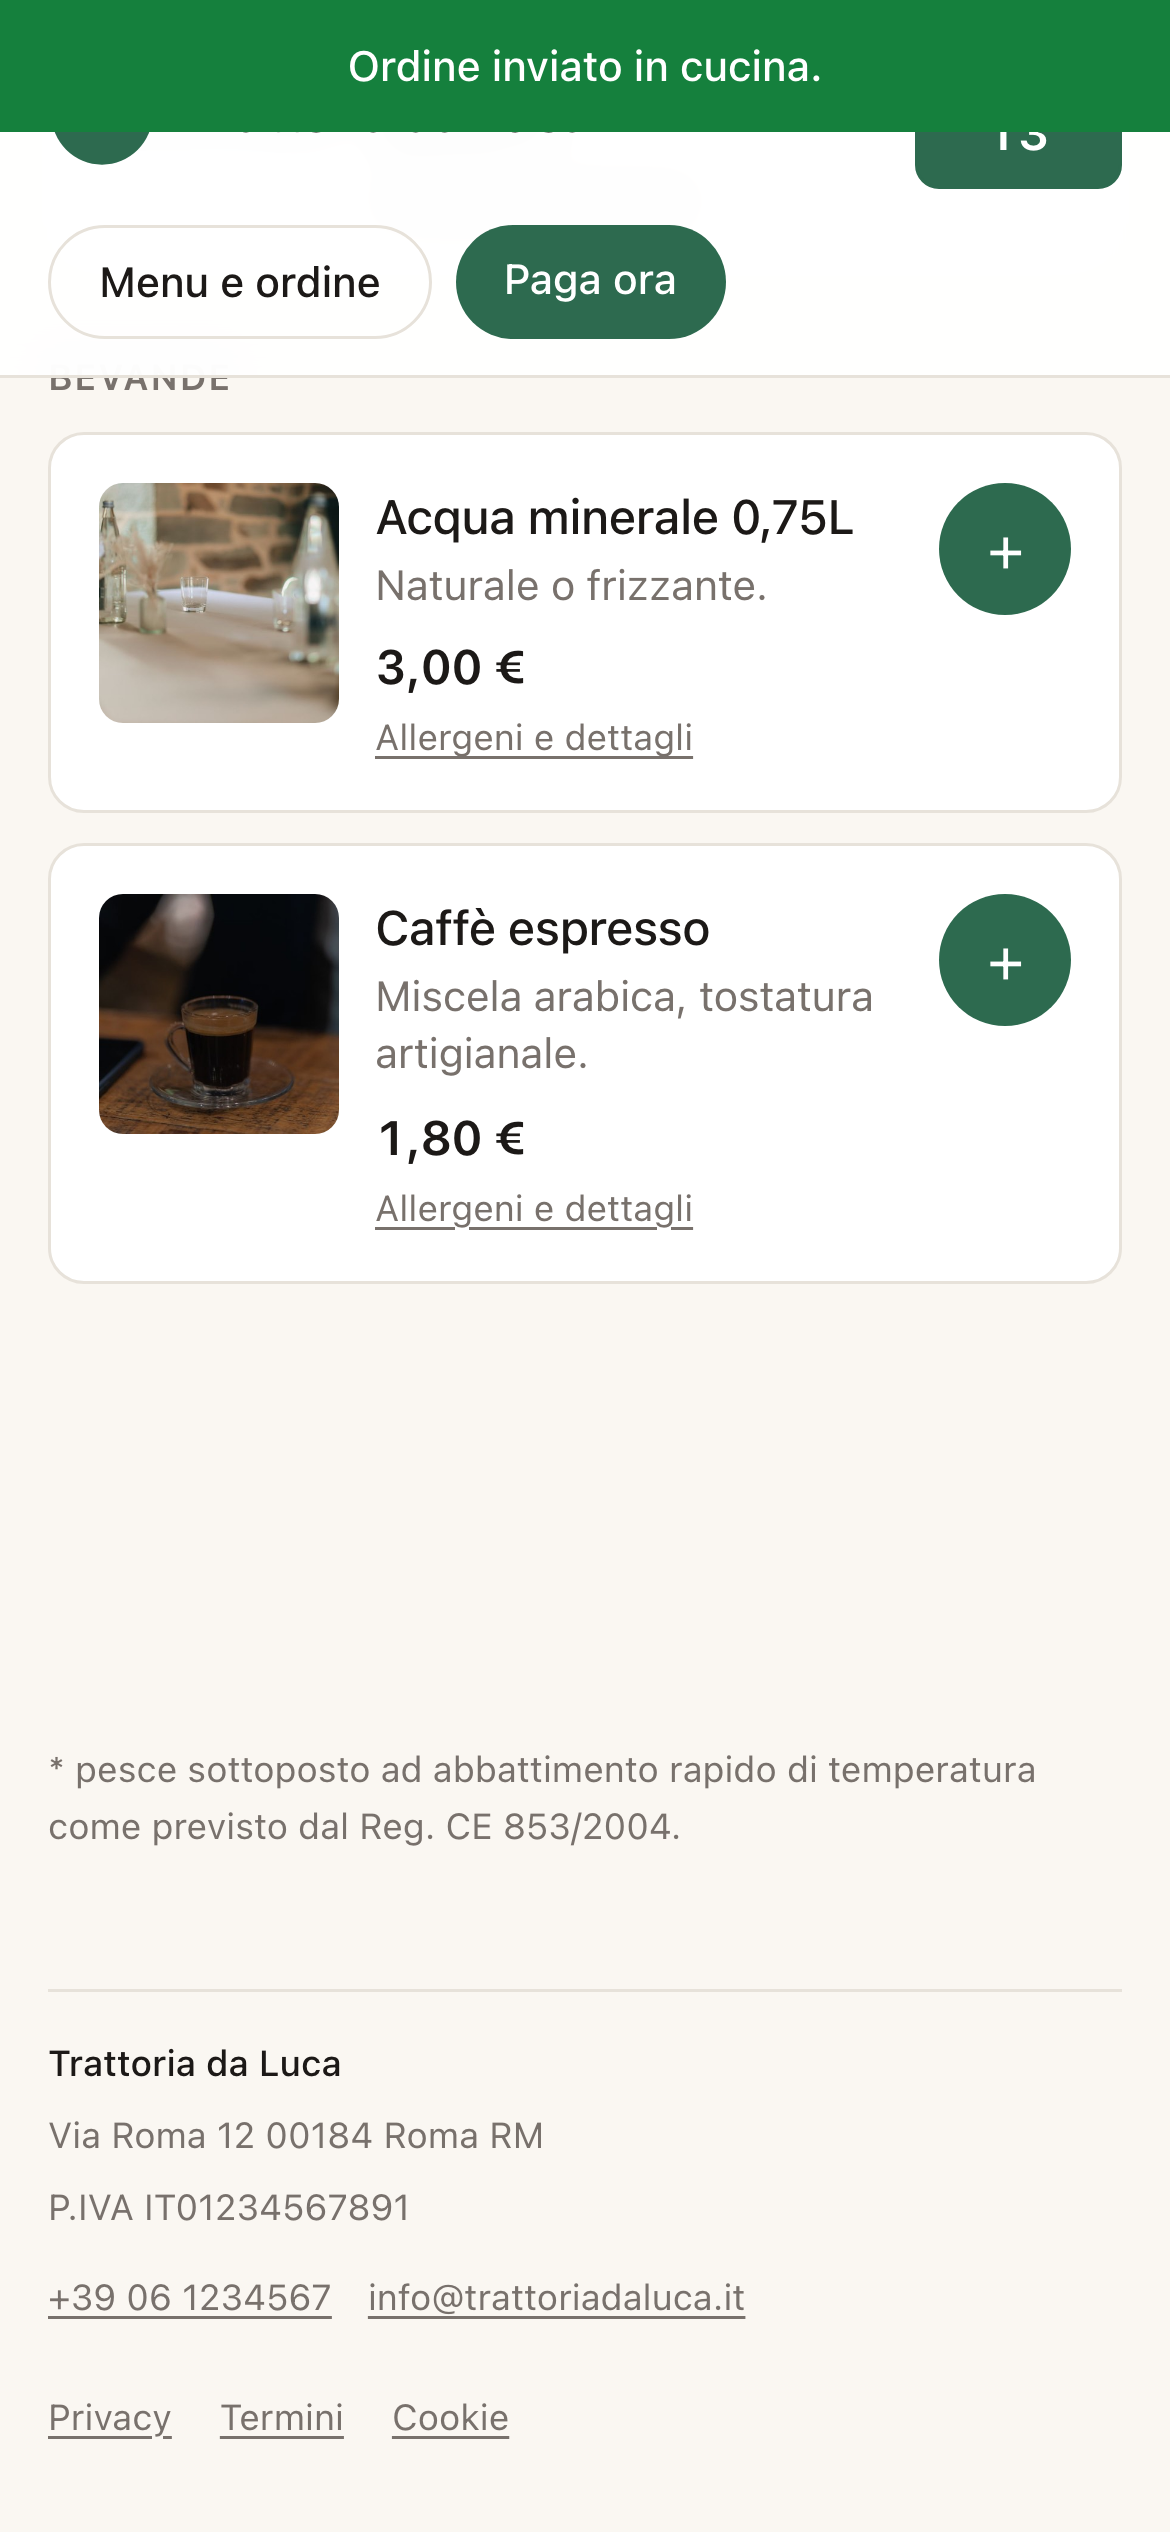
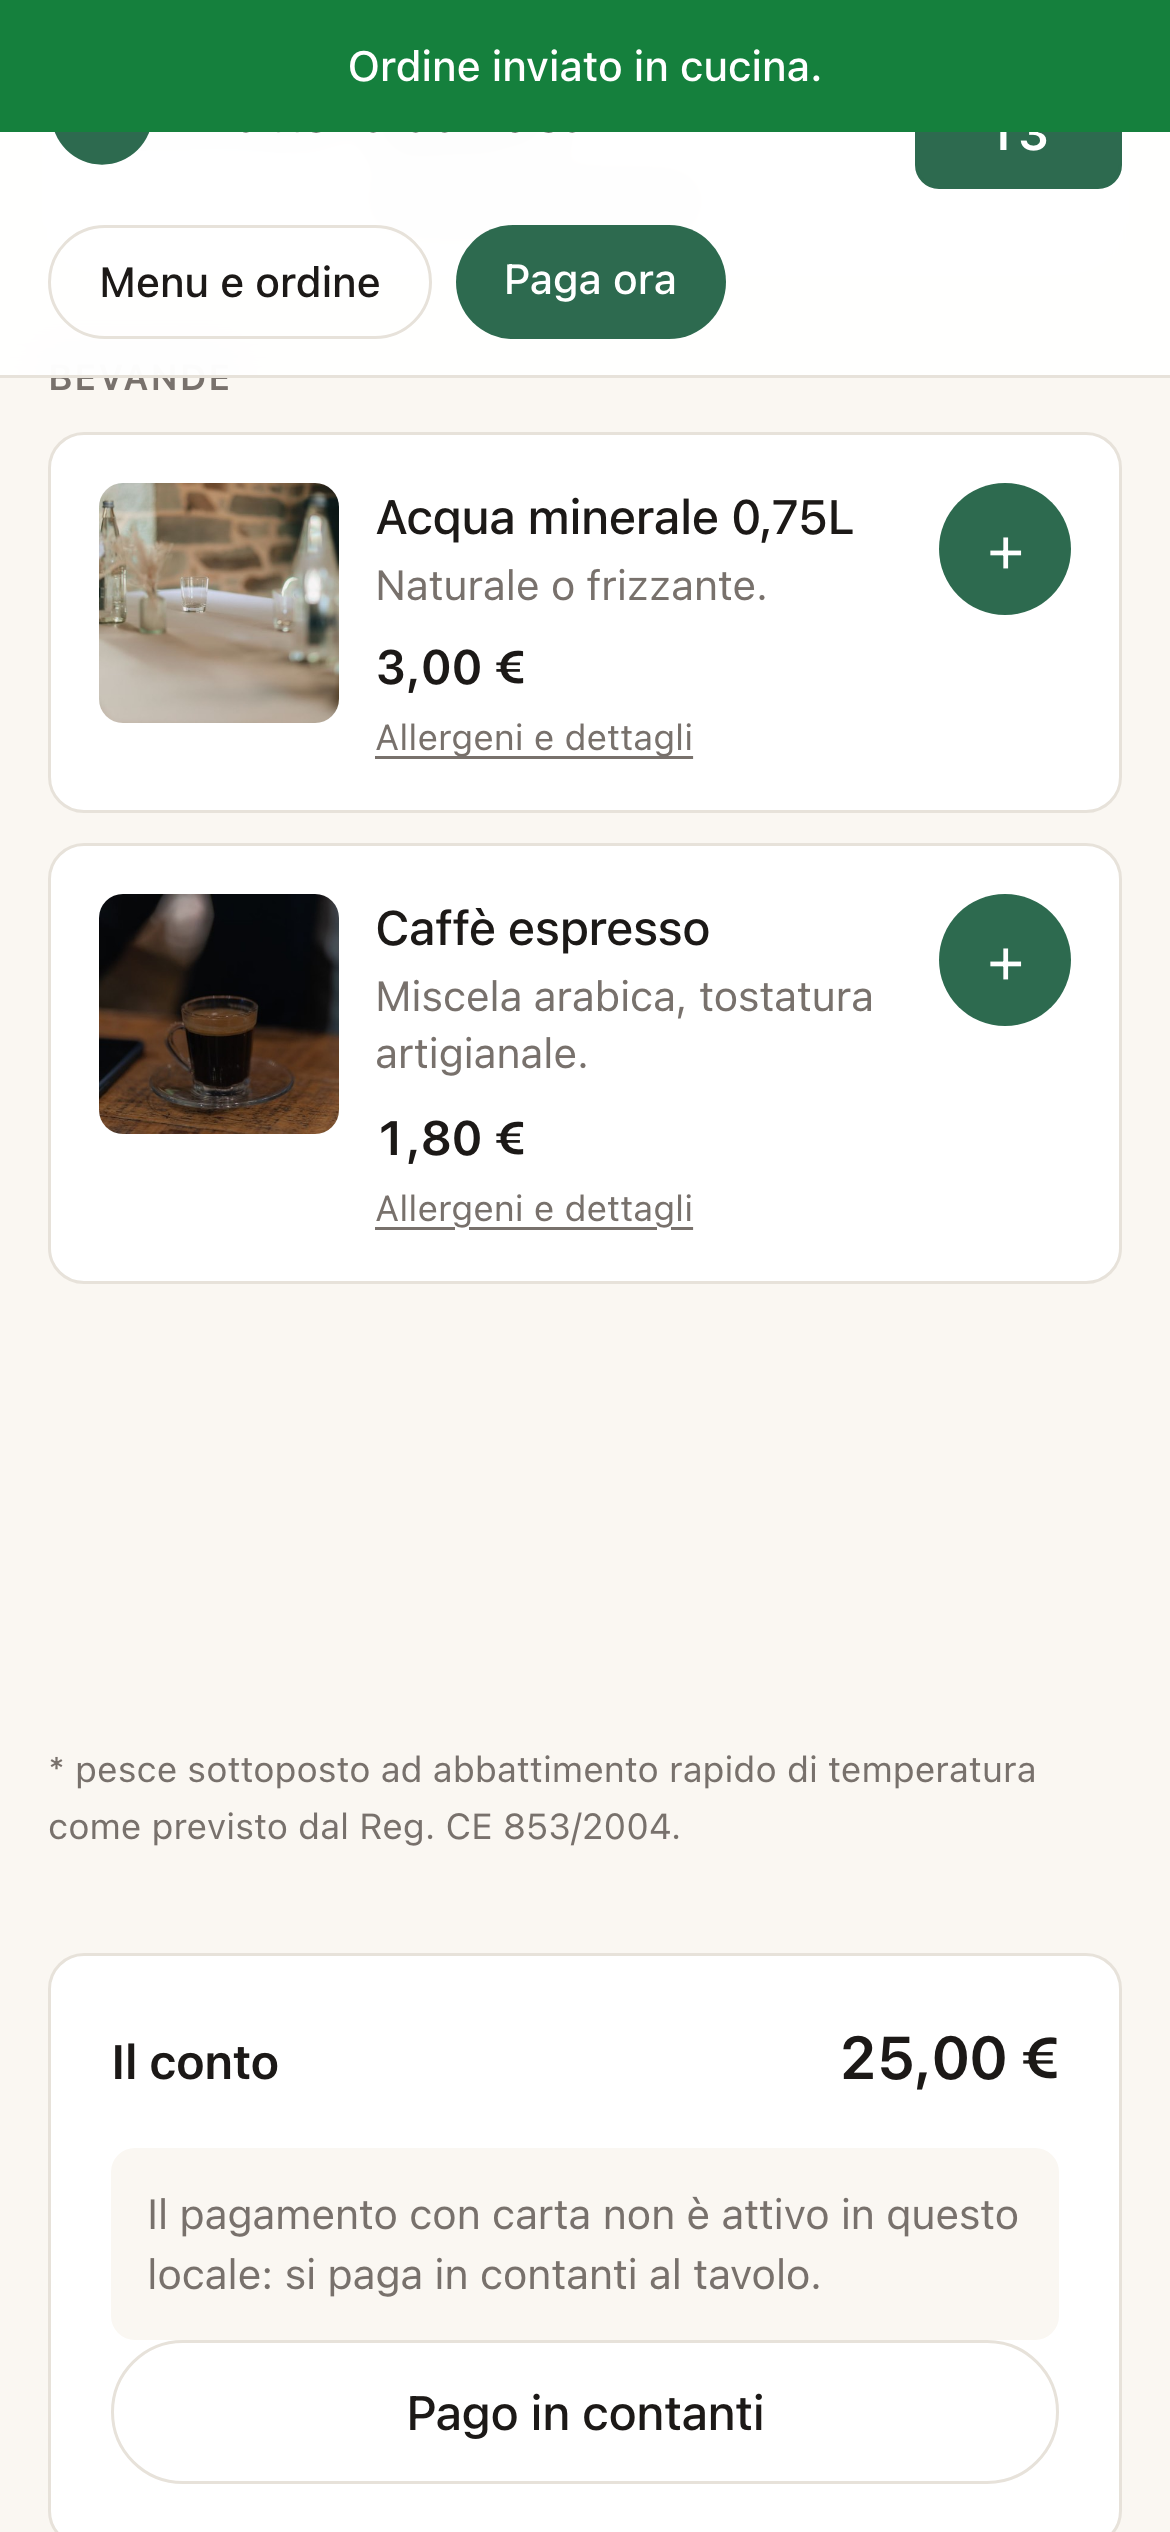
Stop the day-by-day bars painting over the page
The peak was taken from the individual result rows while the bars were
drawn from days aggregated across those rows, so any day made of more than
one row summed past the maximum, the width went over 100% and the bar ran
out of its box and across the navigation. The peak is now taken after
aggregation, the width is clamped, and the bar sits in a track that clips
it — so a future miscalculation stops at the edge instead of repainting
the page.

Changed region(s): [[0.0308, 0.8112, 0.7077, 0.9672], [0.7077, 0.78, 0.8615, 0.8424], [0.7692, 0.8736, 0.8, 0.9048]]

diff --git a/apps/dashboard/src/app/dashboard/analisi/page.tsx b/apps/dashboard/src/app/dashboard/analisi/page.tsx
@@ -183,9 +183,6 @@ export default async function AnalisiPage({
     ? Math.round(Number(riepilogo.durata_media_min))
     : 0;
 
-  const piccoGiorno = perGiorno.length
-    ? Math.max(...perGiorno.map((g) => Number(g.incasso)))
-    : 0;
   const piccoOra = perOra.length ? Math.max(...perOra.map((o) => o.sessioni)) : 0;
 
   // Dalle 11 alle 24: è l'arco in cui un locale serve. Mostrare solo le ore
@@ -205,6 +202,14 @@ export default async function AnalisiPage({
     acc.n += g.sessioni;
     giorniAggregati.set(k, acc);
   }
+
+  // Il picco va preso DOPO l'aggregazione. Prendendolo dalle righe singole,
+  // un giorno con più righe sommava oltre il massimo, la larghezza superava
+  // il 100% e la barra usciva dal riquadro fin sopra la navigazione.
+  const piccoGiorno = Math.max(
+    0,
+    ...[...giorniAggregati.values()].map((d) => d.incasso)
+  );
 
   return (
     <main className="mx-auto max-w-4xl space-y-6 px-4 py-5">
@@ -311,12 +316,21 @@ export default async function AnalisiPage({
                       </span>
                     </span>
                   </div>
-                  <div
-                    className="mt-1 h-1.5 rounded-full bg-accent"
-                    style={{
-                      width: `${piccoGiorno > 0 ? Math.max(2, (d.incasso / piccoGiorno) * 100) : 2}%`,
-                    }}
-                  />
+                  {/* Il contenitore taglia comunque: se un domani il calcolo
+                      sbaglia di nuovo, la barra si ferma qui invece di
+                      dipingere sopra il resto della pagina. */}
+                  <div className="mt-1 h-1.5 w-full overflow-hidden rounded-full bg-border">
+                    <div
+                      className="h-full rounded-full bg-accent"
+                      style={{
+                        width: `${
+                          piccoGiorno > 0
+                            ? Math.min(100, Math.max(2, (d.incasso / piccoGiorno) * 100))
+                            : 2
+                        }%`,
+                      }}
+                    />
+                  </div>
                 </li>
               ))}
             </ul>
